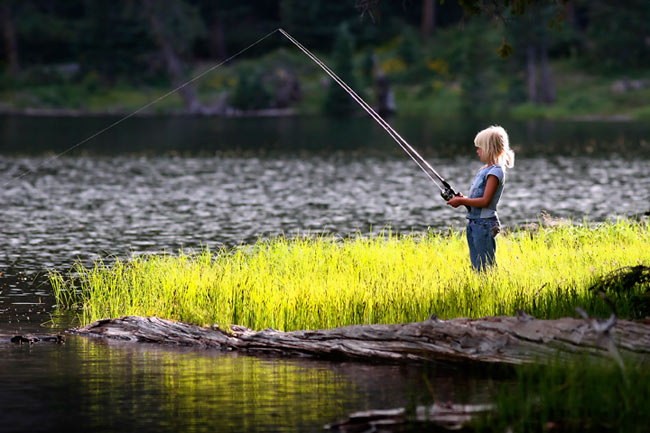
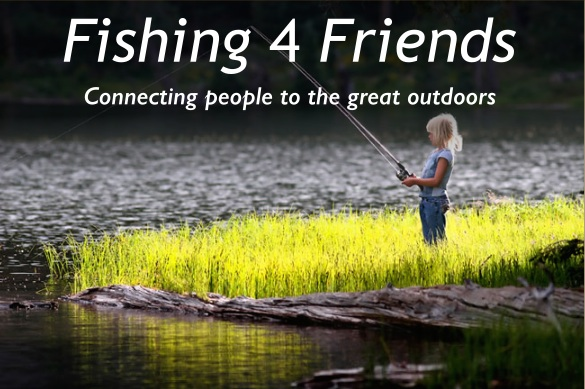
Cleaning up the home page, social account lists, and Offering edit page.

diff --git a/public/modules/core/views/home.client.view.html b/public/modules/core/views/home.client.view.html
@@ -1,105 +1,89 @@
 
 <section data-ng-controller="HomeController">
 
-	<div class="jumbotron text-center ">
-		<div class="row">
-			<div class="col-md-6 col-md-offset-3 col-sm-6 col-sm-offset-3 col-xs-12"> 
-				<!-- <img alt="MEAN.JS" class="img-responsive text-center" src="modules/core/img/brand/fishing_logo.png" /> -->
-			</div>
-		</div>
-		<div class="row mainheader">
-			<div class="page-header mainheader">
-				<h1>Fishing4Friends<h1>
-					<p>Connecting people to the great outdoors</p>
-			</div>
-		</div>
-	</div>
+<div ng-show="authentication.user" class="jumbotron text-center">
+	<h1>Fishing 4 Friends</h1>
+</div>
+
+
 
   <!-- addin for carousel display of rotating pictures starts here-->
-  <!-- Needed libraries loaded by layout.server.view.html -->
-  
+  <!-- Needed libraries loaded by layout.server.view.html -->  
 
-<div id="carousel-example-generic" class="carousel slide" data-ride="carousel">
-  <!-- Indicators -->
-  <ol class="carousel-indicators" ng-hide='authentication.user'>
-    <li data-target="#carousel-example-generic" data-slide-to="0" class="active"></li>
-    <li data-target="#carousel-example-generic" data-slide-to="1"></li>
-    <li data-target="#carousel-example-generic" data-slide-to="2"></li>
-    <li data-target="#carousel-example-generic" data-slide-to="3"></li>
-    <li data-target="#carousel-example-generic" data-slide-to="4"></li>
-    <li data-target="#carousel-example-generic" data-slide-to="5"></li>
-    <li data-target="#carousel-example-generic" data-slide-to="6"></li>
-    <li data-target="#carousel-example-generic" data-slide-to="7"></li>
-    <li data-target="#carousel-example-generic" data-slide-to="8"></li>
-    <li data-target="#carousel-example-generic" data-slide-to="9"></li>
-    <li data-target="#carousel-example-generic" data-slide-to="10"></li>
-  </ol>
+<div ng-hide="authentication.user" id="carousel-example-generic" class="carousel slide" data-ride="carousel">
+	<!-- Indicators -->
+	<ol class="carousel-indicators" ng-hide='authentication.user'>
+		<li data-target="#carousel-example-generic" data-slide-to="0" class="active"></li>
+		<li data-target="#carousel-example-generic" data-slide-to="1"></li>
+		<li data-target="#carousel-example-generic" data-slide-to="2"></li>
+		<li data-target="#carousel-example-generic" data-slide-to="3"></li>
+		<li data-target="#carousel-example-generic" data-slide-to="4"></li>
+		<li data-target="#carousel-example-generic" data-slide-to="5"></li>
+		<li data-target="#carousel-example-generic" data-slide-to="6"></li>
+		<li data-target="#carousel-example-generic" data-slide-to="7"></li>
+		<li data-target="#carousel-example-generic" data-slide-to="8"></li>
+		<li data-target="#carousel-example-generic" data-slide-to="9"></li>
+		<li data-target="#carousel-example-generic" data-slide-to="10"></li>
+	</ol>
 
-  <!-- Wrapper for slides -->
-  <div class="carousel-inner" role="listbox" ng-hide='authentication.user'>	
-	<div class="item active">
-      <img src="modules/core/img/carousel/people_fishing_latirs.jpg" alt="Fishing From Shore" width="460" height="345">
-      <div class="carousel-caption">
-        Fishing From Shore.
-      </div>
-    </div>
-
-      <div class="item">
-        <img src="modules/core/img/carousel/Algonquin.jpg" alt="Algonquin" width="460" height="345">
-	      <div class="carousel-caption">
-	        Calm day, Algonquin, ON.
-	      </div>
-      </div>
-
-
-     <div class="item">
-        <img src="modules/core/img/carousel/fishing on boat.jpg" alt="fishing on a boat" width="460" height="345">
-	      <div class="carousel-caption">
-	        Casting from the Boat.
-	      </div>
-      </div>
-    
-     <div class="item">
-        <img src="modules/core/img/carousel/boy_caught_fish.jpg" alt="first fish" width="460" height="345">
-	      <div class="carousel-caption">
-	        First Fish.
-	      </div>
-      </div>
-
- 	<div class="item">
-        <img src="modules/core/img/carousel/Northern-Pike-Fishing.jpg" alt="northern pike fishing" width="460" height="345">
-      	
-      	<div class="carousel-caption">
-	        I caught a big one!
-	     </div>
-
-      </div>
-
-      <div class="item">
-        <img src="modules/core/img/carousel/Center_Island_Common_Carp.jpg" alt="Center Island Common Carp" width="460" height="345">
-      	
-      	<div class="carousel-caption">
-	        Center Island Common Carp Catch.
-	     </div>
-
-      </div>
-
-      <div class="item">
-        <img src="modules/core/img/carousel/dangers.jpg" alt="ice fishing for a truck" max-width="460" height="345">
-      	
-      	<div class="carousel-caption">
-	        I caught a Ford!
+	<!-- Wrapper for slides -->
+	<div class="carousel-inner" role="listbox" >	
+		<div class="item active">
+			<img src="modules/core/img/carousel/people_fishing_latirs.jpg" alt="Fishing From Shore" width="460" height="345">
+			<div class="carousel-caption">
+				Fishing From Shore.
+			</div>
 	    </div>
-		
-      </div>
+
+	    <div class="item">
+	        <img src="modules/core/img/carousel/Algonquin.jpg" alt="Algonquin" width="460" height="345">
+		      <div class="carousel-caption">
+		        Calm day, Algonquin, ON.
+		      </div>
+	    </div>
+
+
+	    <div class="item">
+	        <img src="modules/core/img/carousel/fishing on boat.jpg" alt="fishing on a boat" width="460" height="345">
+		      <div class="carousel-caption">
+		        Casting from the Boat.
+		      </div>
+	    </div>
+    
+	    <div class="item">
+	        <img src="modules/core/img/carousel/boy_caught_fish.jpg" alt="first fish" width="460" height="345">
+		      <div class="carousel-caption">
+		        First Fish.
+		      </div>
+	    </div>
+
+	 	<div class="item">
+	        <img src="modules/core/img/carousel/Northern-Pike-Fishing.jpg" alt="northern pike fishing" width="460" height="345">
+	      	<div class="carousel-caption">
+		        I caught a big one!
+		    </div>
+        </div>
+
+        <div class="item">
+      	    <img src="modules/core/img/carousel/Center_Island_Common_Carp.jpg" alt="Center Island Common Carp" width="460" height="345">
+      	
+	      	<div class="carousel-caption">
+		        Center Island Common Carp Catch.
+		     </div>
+		</div>
+
+	    <div class="item">
+	        <img src="modules/core/img/carousel/dangers.jpg" alt="ice fishing for a truck" max-width="460" height="345">
+	      	<div class="carousel-caption">
+		        I caught a Ford!
+		    </div>	
+	    </div>
 		
 		<div class="item">
 	        <img src="modules/core/img/carousel/northernpikefishing.JPG" alt="Proud of his Catch" max-width="460" max-height="345">
-	      	
 	      	<div class="carousel-caption">
 		        Proud of his Catch.
 		    </div>
-
 		</div>
 		
 		<div class="item">
@@ -107,11 +91,10 @@
 		      <div class="carousel-caption">
 		        Calm Day on the Water
 		      </div>
-      </div>
+		</div>
 
-      <div class="item">
+		<div class="item">
 	        <img src="modules/core/img/carousel/downtown_fisherman.jpeg" alt="fishing by the tower" max-width="460" max-height="300">
-	      	
 	      	<div class="carousel-caption">
 		        Fishing in Toronto.
 		    </div>
@@ -120,24 +103,22 @@
 
 		<div class="item">
 	        <img src="modules/core/img/carousel/fishing-in-toronto-and-gta.jpeg" alt="fishing in Toronto GTA" max-width="460" max-height="300">
-	      	
 	      	<div class="carousel-caption">
 		        Fishing in Toronto.
 		    </div>
 		</div>
 
-     </div>
-  </div>
+    </div>
 
-  <!-- Controls -->
-  <a class="left carousel-control" href="#carousel-example-generic" role="button" data-slide="prev" ng-hide='authentication.user'>
-    <span class="glyphicon glyphicon-chevron-left" aria-hidden="true"></span>
-    <span class="sr-only">Previous</span>
-  </a>
-  <a class="right carousel-control" href="#carousel-example-generic" role="button" data-slide="next" ng-hide='authentication.user'>
-    <span class="glyphicon glyphicon-chevron-right" aria-hidden="true"></span>
-    <span class="sr-only">Next</span>
-  </a>
+	<!-- Controls -->
+	<a class="left carousel-control" href="#carousel-example-generic" role="button" data-slide="prev" ng-hide='authentication.user'>
+		<span class="glyphicon glyphicon-chevron-left" aria-hidden="true"></span>
+		<span class="sr-only">Previous</span>
+	</a>
+	<a class="right carousel-control" href="#carousel-example-generic" role="button" data-slide="next" ng-hide='authentication.user'>
+		<span class="glyphicon glyphicon-chevron-right" aria-hidden="true"></span>
+		<span class="sr-only">Next</span>
+	</a>
 </div>		
 <!-- addin for carousel display of rotating pictures ends here-->
   
@@ -189,6 +170,6 @@
     </div>
 </section>
 </section>
-<section class='footer pull-right'>
+<!-- <section class='footer pull-right'>
 <center><img src="modules/core/img/brand/catfish.jpg" width=100 height=50></img></center>
-</section>
+</section> -->

diff --git a/public/modules/users/views/settings/social-accounts.client.view.html b/public/modules/users/views/settings/social-accounts.client.view.html
@@ -8,15 +8,15 @@
 			</a>
 		</div>
 	</div>
-	<h3 class="col-md-12 text-center">Connect other social accounts:</h3>
+	<h3 class="col-md-12 text-center">Connect other social account:</h3>
 	<div class="col-md-12 text-center">
-		<a href="/auth/facebook" data-ng-hide="isConnectedSocialAccount('facebook')" class="undecorated-link">
+<!-- 		<a href="/auth/facebook" data-ng-hide="isConnectedSocialAccount('facebook')" class="undecorated-link">
 			<img src="/modules/users/img/buttons/facebook.png">
-		</a>
+		</a> -->
 		<a href="/auth/twitter" data-ng-hide="isConnectedSocialAccount('twitter')" class="undecorated-link">
 			<img src="/modules/users/img/buttons/twitter.png">
 		</a>
-		<a href="/auth/google" data-ng-hide="isConnectedSocialAccount('google')" class="undecorated-link">
+<!-- 		<a href="/auth/google" data-ng-hide="isConnectedSocialAccount('google')" class="undecorated-link">
 			<img src="/modules/users/img/buttons/google.png">
 		</a>
 		<a href="/auth/linkedin" data-ng-hide="isConnectedSocialAccount('linkedin')" class="undecorated-link">
@@ -24,6 +24,6 @@
 		</a>
 		<a href="/auth/github" data-ng-hide="isConnectedSocialAccount('github')" class="undecorated-link">
 			<img src="/modules/users/img/buttons/github.png">
-		</a>
+		</a> -->
 	</div>
 </section>

diff --git a/public/modules/users/views/authentication/signin.client.view.html b/public/modules/users/views/authentication/signin.client.view.html
@@ -1,13 +1,13 @@
 <section class="row" data-ng-controller="AuthenticationController">
-	<h3 class="col-md-12 text-center">Sign in using your social accounts</h3>
+	<h3 class="col-md-12 text-center">Sign in using your social account</h3>
 	<div class="col-md-12 text-center">
-		<a href="/auth/facebook" class="undecorated-link">
+<!-- 		<a href="/auth/facebook" class="undecorated-link">
 			<img src="/modules/users/img/buttons/facebook.png">
-		</a>
+		</a> -->
 		<a href="/auth/twitter" class="undecorated-link">
 			<img src="/modules/users/img/buttons/twitter.png">
 		</a>
-		<a href="/auth/google" class="undecorated-link">
+<!-- 		<a href="/auth/google" class="undecorated-link">
 			<img src="/modules/users/img/buttons/google.png">
 		</a>
 		<a href="/auth/linkedin" class="undecorated-link">
@@ -15,7 +15,7 @@
 		</a>
 		<a href="/auth/github" class="undecorated-link">
 			<img src="/modules/users/img/buttons/github.png">
-		</a>
+		</a> -->
 	</div>
 	<h3 class="col-md-12 text-center">Or with your account</h3>
 	<div class="col-xs-offset-2 col-xs-8 col-md-offset-5 col-md-2">

diff --git a/public/modules/users/views/authentication/signup.client.view.html b/public/modules/users/views/authentication/signup.client.view.html
@@ -1,13 +1,13 @@
 <section class="row" data-ng-controller="AuthenticationController">
-	<h3 class="col-md-12 text-center">Sign up using your social accounts</h3>
+	<h3 class="col-md-12 text-center">Sign up using your social account</h3>
 	<div class="col-md-12 text-center">
-		<a href="/auth/facebook" class="undecorated-link">
+<!-- 		<a href="/auth/facebook" class="undecorated-link">
 			<img src="/modules/users/img/buttons/facebook.png">
-		</a>
+		</a> -->
 		<a href="/auth/twitter" class="undecorated-link">
 			<img src="/modules/users/img/buttons/twitter.png">
 		</a>
-		<a href="/auth/google" class="undecorated-link">
+<!-- 		<a href="/auth/google" class="undecorated-link">
 			<img src="/modules/users/img/buttons/google.png">
 		</a>
 		<a href="/auth/linkedin" class="undecorated-link">
@@ -15,7 +15,7 @@
 		</a>
 		<a href="/auth/github" class="undecorated-link">
 			<img src="/modules/users/img/buttons/github.png">
-		</a>
+		</a> -->
 	</div>
 	<h3 class="col-md-12 text-center">Or with your email</h3>
 	<div class="col-xs-offset-2 col-xs-8 col-md-offset-5 col-md-2">

diff --git a/public/modules/offerings/views/edit-offering.client.view.html b/public/modules/offerings/views/edit-offering.client.view.html
@@ -27,7 +27,7 @@
                 </div>
 
                 <div class="form-group">
-                    <input type="submit" value="Update" class="btn btn-default">
+                    <input type="submit" value="Update listing" class="btn btn-default">
                 </div>
 				<div data-ng-show="error" class="text-danger">
 					<strong data-ng-bind="error"></strong>
@@ -35,6 +35,8 @@
             </fieldset>
         </form>
     </div>
+
+<div class="form-group" ng-include="'/modules/core/views/modal-upload.client.view.html'"></div>
 
     <div >
         <img ng-show="offering.offering_pic.src" data-ng-src="{{offering.offering_pic.src}}" style="max-width:500px"/>
@@ -45,4 +47,3 @@
 
 
 
-<div class="form-group" ng-include="'/modules/core/views/modal-upload.client.view.html'"></div>
